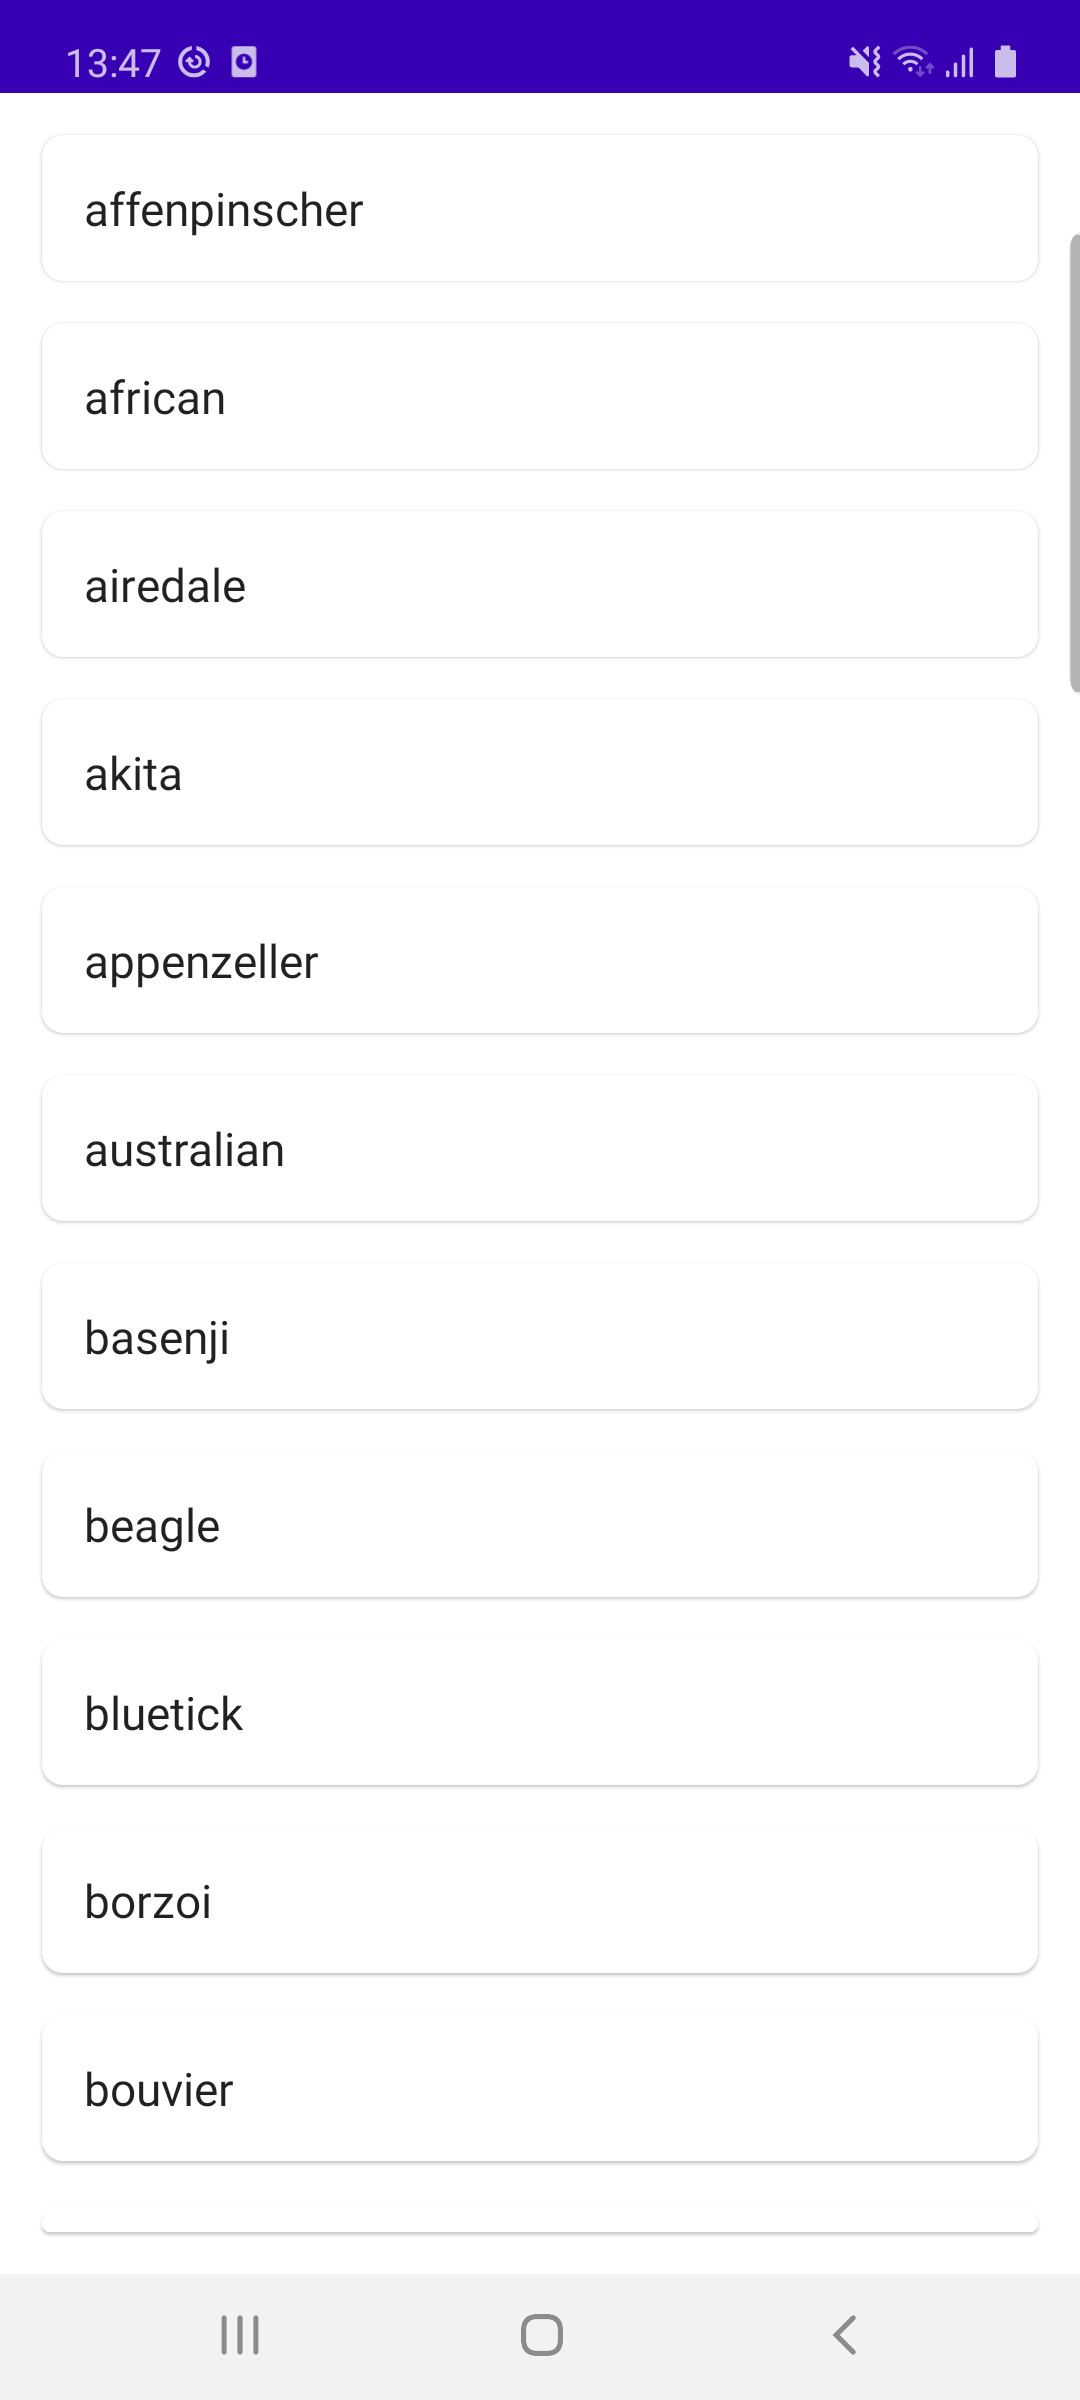
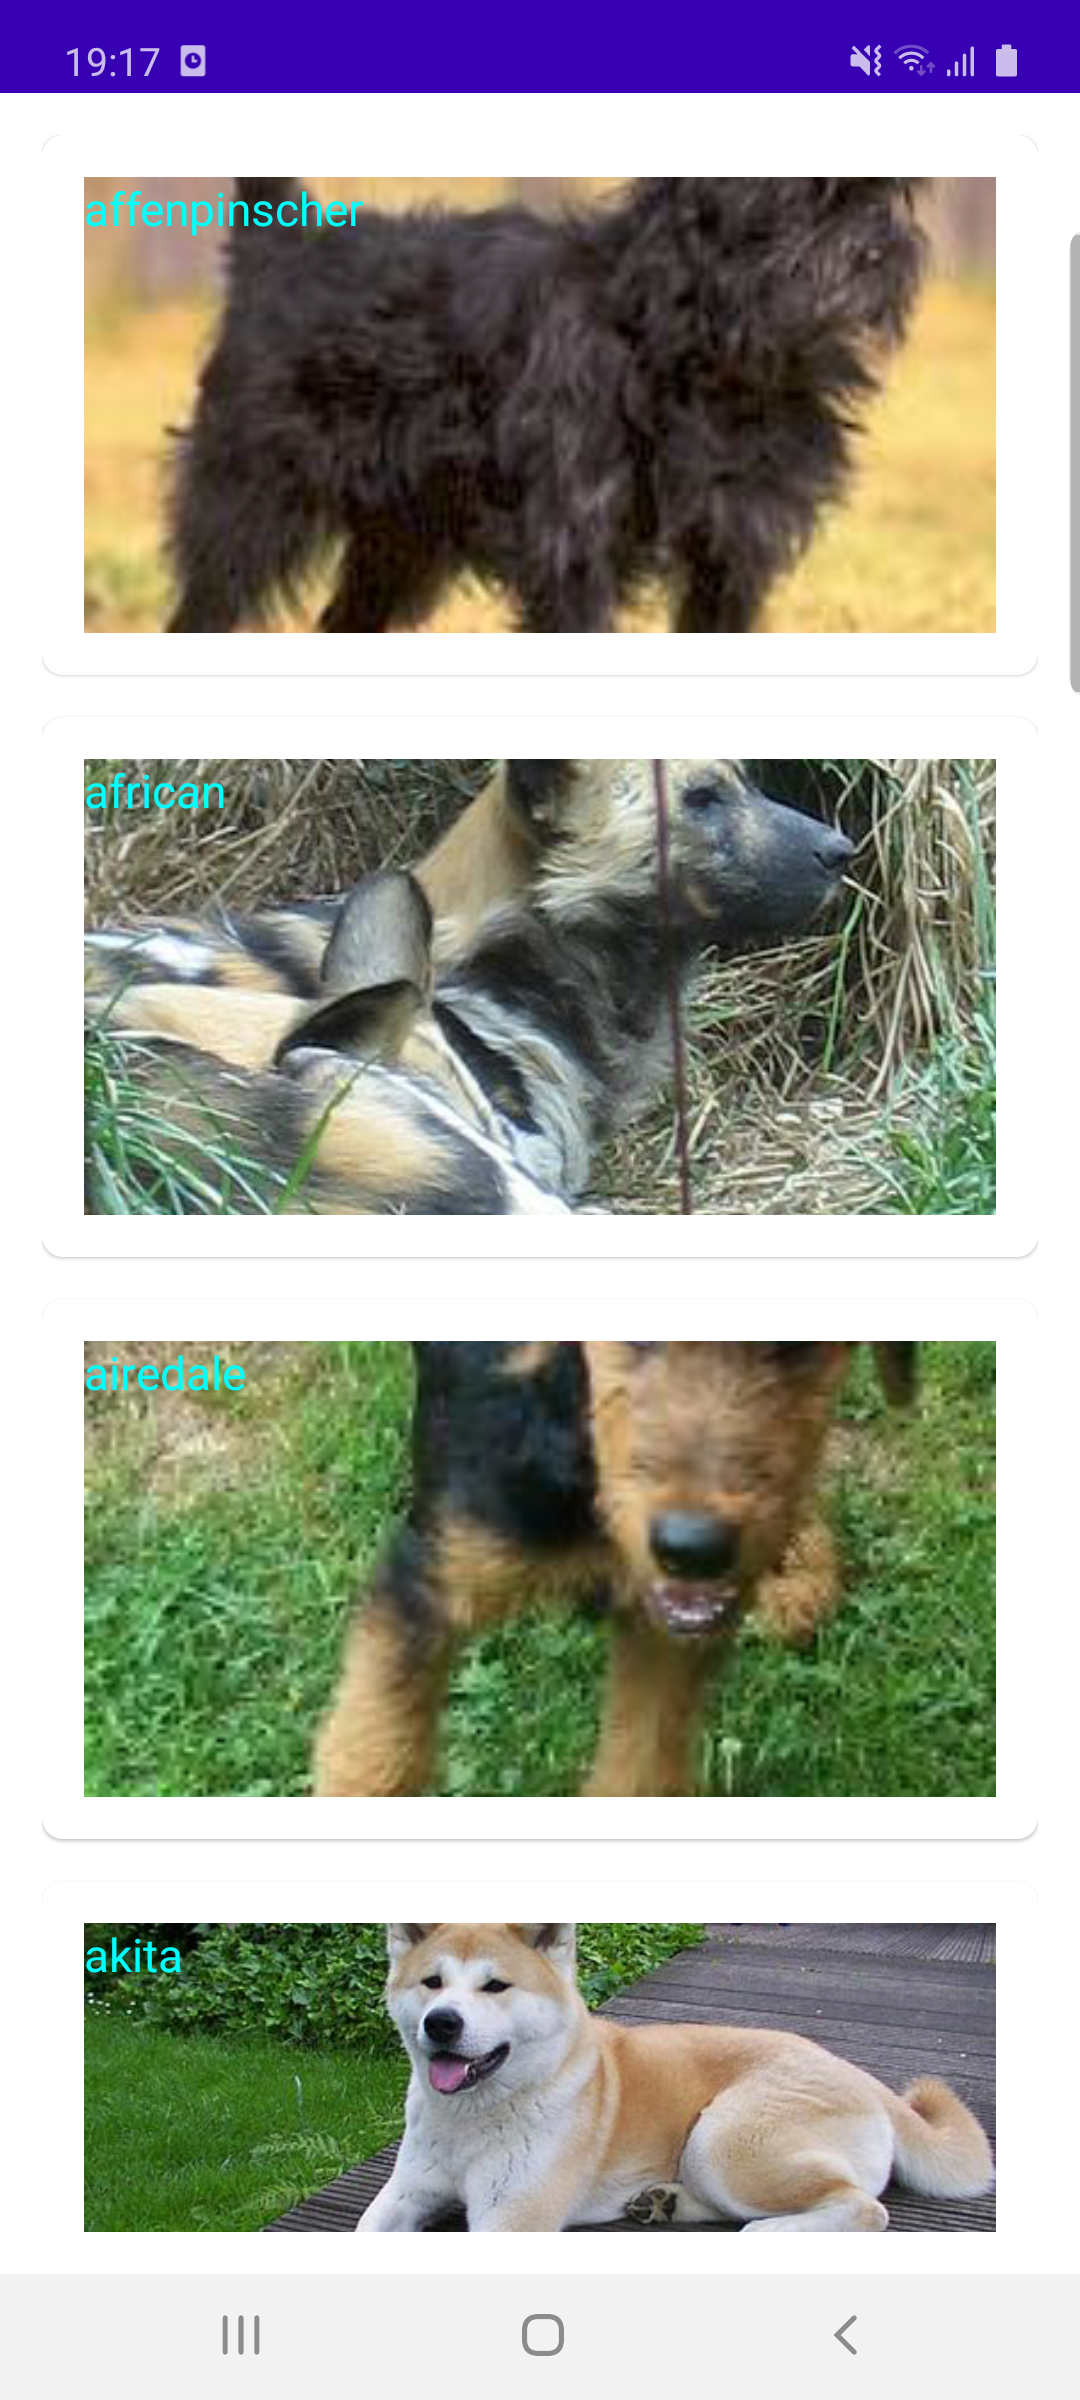
Show images

diff --git a/app/src/main/java/com/jarroyo/jetpackcomposekmp/ui/composables/HomeComposable.kt b/app/src/main/java/com/jarroyo/jetpackcomposekmp/ui/composables/HomeComposable.kt
@@ -1,6 +1,7 @@
 package com.jarroyo.jetpackcomposekmp.ui.composables
 
 import androidx.activity.ComponentActivity
+import androidx.compose.foundation.ScrollableColumn
 import androidx.compose.foundation.clickable
 import androidx.compose.foundation.layout.*
 import androidx.compose.foundation.lazy.LazyColumnFor
@@ -25,6 +26,7 @@ import com.jarroyo.jetpackcomposekmp.ui.AppState
 import com.jarroyo.jetpackcomposekmp.ui.CurrentScreen
 import com.jarroyo.jetpackcomposekmp.ui.viewModel.HomeViewModel
 import com.jarroyo.jetpackcomposekmp.R
+import com.jarroyo.jetpackcomposekmp.ui.utils.NetworkImage
 import com.jarroyo.sharedcodeclient.domain.model.Breed
 
 @Composable
@@ -32,9 +34,8 @@ fun HomeComposable(appState: AppState, homeViewModel: HomeViewModel) {
     val activity = (LifecycleOwnerAmbient.current as ComponentActivity)
     val animalList: List<Breed>? by homeViewModel.animalListLiveData.observeAsState()
 
-    homeViewModel.getAnimalListFlow()
 
-    Column(modifier = Modifier.padding(16.dp)) {
+    ScrollableColumn(modifier = Modifier.padding(16.dp)) {
         animalList?.let {
             for (animal in it) {
                 Card(
@@ -45,7 +46,13 @@ fun HomeComposable(appState: AppState, homeViewModel: HomeViewModel) {
                     Box(
                         modifier = Modifier.padding(16.dp),
                     ){
-                        Text("${animal.name} ${animal.image}")
+                        NetworkImage(
+                            url = animal.image ?: "",
+                            Modifier.fillMaxWidth().aspectRatio(2.0f),
+                            circularRevealedEnabled = true
+                        )
+
+                        Text(color = Color.Cyan, text = "${animal.name}")
                     }
                 }
                 Spacer(modifier = Modifier.fillMaxWidth().height(16.dp))

diff --git a/app/src/main/java/com/jarroyo/jetpackcomposekmp/ui/utils/NetworkImage.kt b/app/src/main/java/com/jarroyo/jetpackcomposekmp/ui/utils/NetworkImage.kt
@@ -1,0 +1,43 @@
+package com.jarroyo.jetpackcomposekmp.ui.utils
+
+import androidx.compose.material.MaterialTheme
+import androidx.compose.material.Text
+import androidx.compose.runtime.Composable
+import androidx.compose.ui.Modifier
+import androidx.compose.ui.layout.ContentScale
+import com.jarroyo.jetpackcomposekmp.ui.style.shimmerHighLight
+import com.skydoves.landscapist.ShimmerParams
+import com.skydoves.landscapist.coil.CoilImage
+
+/**
+ * A wrapper around [CoilImage] setting a default [contentScale] and showing
+ * an indicator when loading disney poster images.
+ *
+ * @see CoilImage https://github.com/skydoves/landscapist#coil
+ */
+@Composable
+fun NetworkImage(
+  url: String,
+  modifier: Modifier,
+  circularRevealedEnabled: Boolean = false,
+  contentScale: ContentScale = ContentScale.Crop
+) {
+  CoilImage(
+    imageModel = url,
+    modifier = modifier,
+    contentScale = contentScale,
+    circularRevealedEnabled = circularRevealedEnabled,
+    circularRevealedDuration = 450,
+    shimmerParams = ShimmerParams(
+      baseColor = MaterialTheme.colors.background,
+      highlightColor = shimmerHighLight,
+      dropOff = 0.65f
+    ),
+    failure = {
+      Text(
+        text = "image request failed.",
+        style = MaterialTheme.typography.body2
+      )
+    }
+  )
+}

diff --git a/SharedCodeClient/src/commonMain/kotlin/com/jarroyo/sharedcodeclient/data/source/AnimalApi.kt b/SharedCodeClient/src/commonMain/kotlin/com/jarroyo/sharedcodeclient/data/source/AnimalApi.kt
@@ -9,6 +9,7 @@ import io.ktor.client.request.*
 import kotlinx.serialization.decodeFromString
 import kotlinx.serialization.json.Json
 import com.jarroyo.sharedcodeclient.domain.model.toModel
+import com.github.aakira.napier.Napier
 
 class AnimalApi {
 
@@ -40,6 +41,8 @@ class AnimalApi {
     suspend fun getAnimalImage(name: String): Response<String?> {
         try {
             val url = endpoint + "breed/$name/images/random"
+
+            Napier.d("AnimalAPI", tag = "$url")
             val json = httpClient.get<String>(url) {}
             val breedImageApi = Json.decodeFromString<BreedImageApi>(json)
             return Response.Success(breedImageApi.image)

diff --git a/app/src/main/java/com/jarroyo/jetpackcomposekmp/MainActivity.kt b/app/src/main/java/com/jarroyo/jetpackcomposekmp/MainActivity.kt
@@ -26,6 +26,7 @@ class MainActivity : ComponentActivity() {
             JetpackComposeKMPTheme {
                 // A surface container using the 'background' color from the theme
                 Surface(color = MaterialTheme.colors.background) {
+                    homeViewModel.getAnimalListFlow()
                     val appState = remember { AppState() }
                     NavigateApp(appState, homeViewModel)
                 }

diff --git a/app/src/main/java/com/jarroyo/jetpackcomposekmp/ui/style/Color.kt b/app/src/main/java/com/jarroyo/jetpackcomposekmp/ui/style/Color.kt
@@ -6,3 +6,4 @@ val purple200 = Color(0xFFBB86FC)
 val purple500 = Color(0xFF6200EE)
 val purple700 = Color(0xFF3700B3)
 val teal200 = Color(0xFF03DAC5)
+val shimmerHighLight = Color(0xA3C2C2C2)

diff --git a/SharedCodeClient/src/commonMain/kotlin/com/jarroyo/sharedcodeclient/domain/model/BreedApi.kt b/SharedCodeClient/src/commonMain/kotlin/com/jarroyo/sharedcodeclient/domain/model/BreedApi.kt
@@ -21,6 +21,7 @@ fun BreedApi.toModel(): List<Breed>? {
     return list
 }
 
+@Serializable
 data class BreedImageApi(
     var status: String? = null,
     @SerialName("message")
